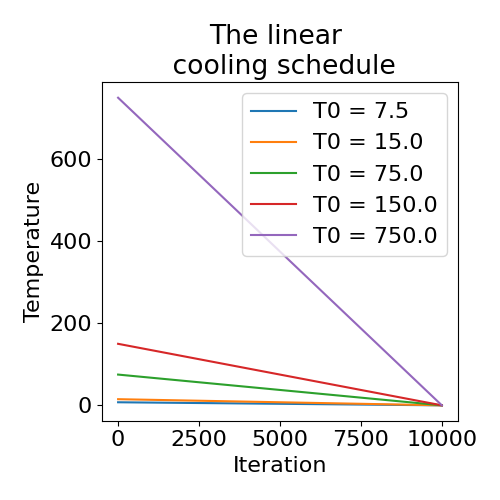
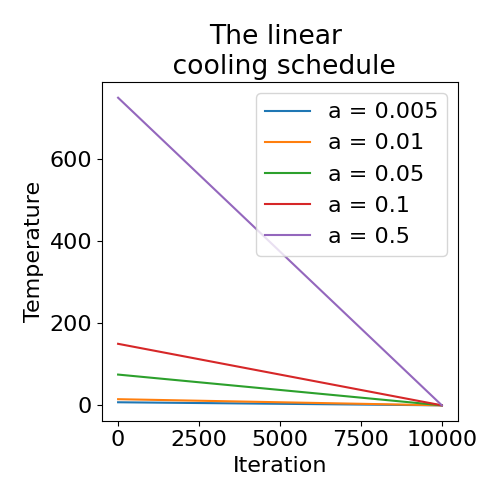
updated the cooling plots

diff --git a/A3/plot_cooling_schedules.py b/A3/plot_cooling_schedules.py
@@ -28,7 +28,7 @@ def plot_cooling(T0, max_iter, cooling_scheme='linear'):
             for i in range(1, max_iter+1):
                 temperatures[i] = a * i**2 + b*i + c
 
-        plt.plot(temperatures, label="T0 = {}".format(round(T0*aa, 1)))
+        plt.plot(temperatures, label="a = {}".format(aa))
         
     plt.xlabel("Iteration")
     plt.ylabel("Temperature")
